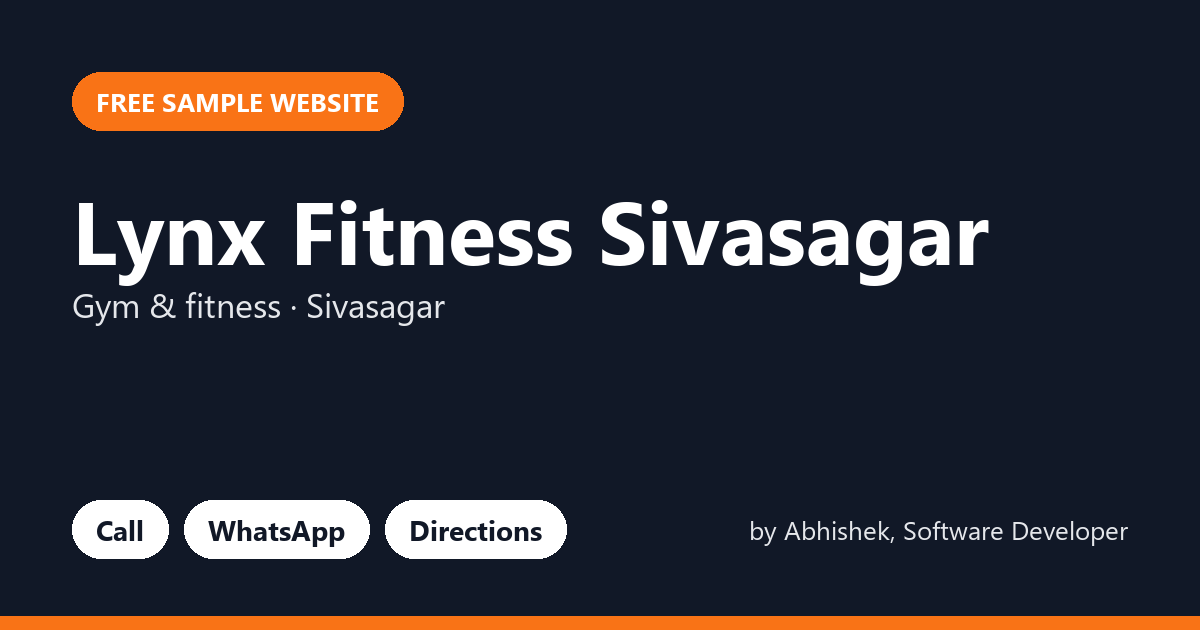
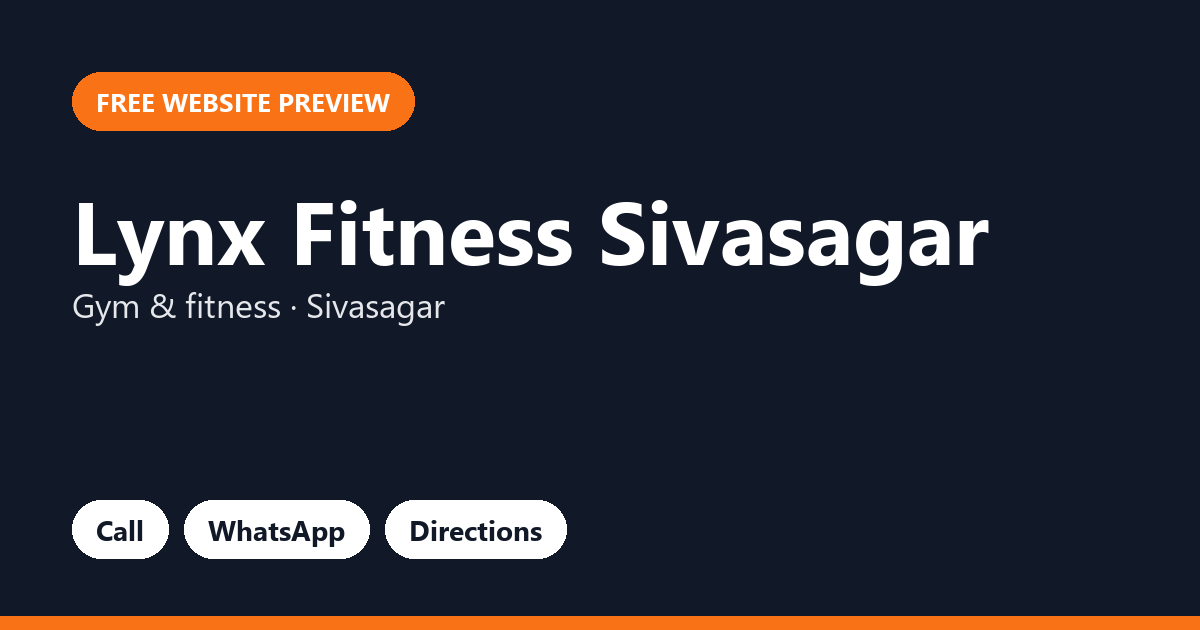
Previews: drop price and personal name (61-65 of 139)

Changed region(s): [[0.6167, 0.8143, 0.925, 0.8746], [0.1233, 0.1206, 0.37, 0.2111]]

diff --git a/p/lk-family-salon-spa-shivamogga-0096/index.html b/p/lk-family-salon-spa-shivamogga-0096/index.html
@@ -6,8 +6,8 @@
 <title>Lk Family Salon &amp; Spa | Salon &amp; beauty in Shivamogga</title>
 <meta name="description" content="Look good, feel great. Expert hair, skin and beauty services in a relaxing space.">
 <meta property="og:type" content="website">
-<meta property="og:title" content="Lk Family Salon &amp; Spa · Free sample website">
-<meta property="og:description" content="Made by Abhishek, Software Developer. Call, WhatsApp and directions in one tap.">
+<meta property="og:title" content="Lk Family Salon &amp; Spa · Free website preview">
+<meta property="og:description" content="Call, WhatsApp and directions in one tap.">
 <meta property="og:url" content="https://roguestar03.github.io/p/lk-family-salon-spa-shivamogga-0096/">
 <meta property="og:image" content="https://roguestar03.github.io/p/lk-family-salon-spa-shivamogga-0096/og.png">
 <meta property="og:image:width" content="1200">
@@ -167,7 +167,7 @@ footer{padding:40px 0 110px;border-top:1px solid var(--line);font-size:14px;colo
 </style>
 </head>
 <body>
-<div class="pv">Sample website made for <b>Lk Family Salon &amp; Spa</b> by <b>Abhishek</b>. Not the official website yet. <b>Like it?</b> Make it yours for ₹1,999. Contact: <a href="mailto:abhishekkayasth87@gmail.com">abhishekkayasth87@gmail.com</a> · <a href="https://www.linkedin.com/in/abhishek-kayasth-050250239/" target="_blank" rel="noopener">LinkedIn</a></div>
+<div class="pv">Free website preview for <b>Lk Family Salon &amp; Spa</b>. Not the official website yet. <b>Like it?</b> Just reply to our message. Contact: <a href="mailto:abhishekkayasth87@gmail.com">abhishekkayasth87@gmail.com</a> · <a href="https://www.linkedin.com/in/abhishek-kayasth-050250239/" target="_blank" rel="noopener">LinkedIn</a></div>
 <header>
   <div class="wrap nav">
     <a href="#top" class="logo"><span class="mark">LF</span><span class="t">Lk Family Salon &amp; Spa</span></a>
@@ -259,7 +259,7 @@ footer{padding:40px 0 110px;border-top:1px solid var(--line);font-size:14px;colo
       <div><b style="color:var(--ink)">Lk Family Salon &amp; Spa</b><br>lk family salon. kuvempu road. shimoga, Shivamogga<p class="soc"><a href="https://www.facebook.com/1844377019213231" target="_blank" rel="noopener">Facebook</a></p></div>
       <div>+91 90354 00096<br>&copy; 2026 Lk Family Salon &amp; Spa</div>
     </div>
-    <p class="credit">Sample website by Abhishek, Software Developer · <a href="mailto:abhishekkayasth87@gmail.com">abhishekkayasth87@gmail.com</a> · <a href="https://www.linkedin.com/in/abhishek-kayasth-050250239/" target="_blank" rel="noopener">LinkedIn</a></p>
+    <p class="credit">Website preview · <a href="mailto:abhishekkayasth87@gmail.com">abhishekkayasth87@gmail.com</a> · <a href="https://www.linkedin.com/in/abhishek-kayasth-050250239/" target="_blank" rel="noopener">LinkedIn</a></p>
   </div>
 </footer>
 

diff --git a/p/lotus-circle-study-centre-delhi-0853/index.html b/p/lotus-circle-study-centre-delhi-0853/index.html
@@ -6,8 +6,8 @@
 <title>Lotus Circle Study Centre | Coaching &amp; tuition in Delhi</title>
 <meta name="description" content="Concept-first teaching, small batches and regular tests that build real results.">
 <meta property="og:type" content="website">
-<meta property="og:title" content="Lotus Circle Study Centre · Free sample website">
-<meta property="og:description" content="Made by Abhishek, Software Developer. Call, WhatsApp and directions in one tap.">
+<meta property="og:title" content="Lotus Circle Study Centre · Free website preview">
+<meta property="og:description" content="Call, WhatsApp and directions in one tap.">
 <meta property="og:url" content="https://roguestar03.github.io/p/lotus-circle-study-centre-delhi-0853/">
 <meta property="og:image" content="https://roguestar03.github.io/p/lotus-circle-study-centre-delhi-0853/og.png">
 <meta property="og:image:width" content="1200">
@@ -167,7 +167,7 @@ footer{padding:40px 0 110px;border-top:1px solid var(--line);font-size:14px;colo
 </style>
 </head>
 <body>
-<div class="pv">Sample website made for <b>Lotus Circle Study Centre</b> by <b>Abhishek</b>. Not the official website yet. <b>Like it?</b> Make it yours for ₹1,999. Contact: <a href="mailto:abhishekkayasth87@gmail.com">abhishekkayasth87@gmail.com</a> · <a href="https://www.linkedin.com/in/abhishek-kayasth-050250239/" target="_blank" rel="noopener">LinkedIn</a></div>
+<div class="pv">Free website preview for <b>Lotus Circle Study Centre</b>. Not the official website yet. <b>Like it?</b> Just reply to our message. Contact: <a href="mailto:abhishekkayasth87@gmail.com">abhishekkayasth87@gmail.com</a> · <a href="https://www.linkedin.com/in/abhishek-kayasth-050250239/" target="_blank" rel="noopener">LinkedIn</a></div>
 <header>
   <div class="wrap nav">
     <a href="#top" class="logo"><span class="mark">LC</span><span class="t">Lotus Circle Study Centre</span></a>
@@ -259,7 +259,7 @@ footer{padding:40px 0 110px;border-top:1px solid var(--line);font-size:14px;colo
       <div><b style="color:var(--ink)">Lotus Circle Study Centre</b><br>C/157, Delhi<p class="soc"><a href="https://www.facebook.com/322078978180556" target="_blank" rel="noopener">Facebook</a></p></div>
       <div>+91 93504 90853<br>&copy; 2026 Lotus Circle Study Centre</div>
     </div>
-    <p class="credit">Sample website by Abhishek, Software Developer · <a href="mailto:abhishekkayasth87@gmail.com">abhishekkayasth87@gmail.com</a> · <a href="https://www.linkedin.com/in/abhishek-kayasth-050250239/" target="_blank" rel="noopener">LinkedIn</a></p>
+    <p class="credit">Website preview · <a href="mailto:abhishekkayasth87@gmail.com">abhishekkayasth87@gmail.com</a> · <a href="https://www.linkedin.com/in/abhishek-kayasth-050250239/" target="_blank" rel="noopener">LinkedIn</a></p>
   </div>
 </footer>
 

diff --git a/p/lynx-fitness-sivasagar-sivasagar-7432/index.html b/p/lynx-fitness-sivasagar-sivasagar-7432/index.html
@@ -6,8 +6,8 @@
 <title>Lynx Fitness Sivasagar | Gym &amp; fitness in Sivasagar</title>
 <meta name="description" content="Train harder, get stronger. Modern equipment, expert trainers and a motivating crowd.">
 <meta property="og:type" content="website">
-<meta property="og:title" content="Lynx Fitness Sivasagar · Free sample website">
-<meta property="og:description" content="Made by Abhishek, Software Developer. Call, WhatsApp and directions in one tap.">
+<meta property="og:title" content="Lynx Fitness Sivasagar · Free website preview">
+<meta property="og:description" content="Call, WhatsApp and directions in one tap.">
 <meta property="og:url" content="https://roguestar03.github.io/p/lynx-fitness-sivasagar-sivasagar-7432/">
 <meta property="og:image" content="https://roguestar03.github.io/p/lynx-fitness-sivasagar-sivasagar-7432/og.png">
 <meta property="og:image:width" content="1200">
@@ -167,7 +167,7 @@ footer{padding:40px 0 110px;border-top:1px solid var(--line);font-size:14px;colo
 </style>
 </head>
 <body>
-<div class="pv">Sample website made for <b>Lynx Fitness Sivasagar</b> by <b>Abhishek</b>. Not the official website yet. <b>Like it?</b> Make it yours for ₹1,999. Contact: <a href="mailto:abhishekkayasth87@gmail.com">abhishekkayasth87@gmail.com</a> · <a href="https://www.linkedin.com/in/abhishek-kayasth-050250239/" target="_blank" rel="noopener">LinkedIn</a></div>
+<div class="pv">Free website preview for <b>Lynx Fitness Sivasagar</b>. Not the official website yet. <b>Like it?</b> Just reply to our message. Contact: <a href="mailto:abhishekkayasth87@gmail.com">abhishekkayasth87@gmail.com</a> · <a href="https://www.linkedin.com/in/abhishek-kayasth-050250239/" target="_blank" rel="noopener">LinkedIn</a></div>
 <header>
   <div class="wrap nav">
     <a href="#top" class="logo"><span class="mark">LF</span><span class="t">Lynx Fitness Sivasagar</span></a>
@@ -259,7 +259,7 @@ footer{padding:40px 0 110px;border-top:1px solid var(--line);font-size:14px;colo
       <div><b style="color:var(--ink)">Lynx Fitness Sivasagar</b><br>Temple Rd, Sivasagar<p class="soc"><a href="https://www.facebook.com/368339087041642" target="_blank" rel="noopener">Facebook</a></p></div>
       <div>+91 70025 07432<br>&copy; 2026 Lynx Fitness Sivasagar</div>
     </div>
-    <p class="credit">Sample website by Abhishek, Software Developer · <a href="mailto:abhishekkayasth87@gmail.com">abhishekkayasth87@gmail.com</a> · <a href="https://www.linkedin.com/in/abhishek-kayasth-050250239/" target="_blank" rel="noopener">LinkedIn</a></p>
+    <p class="credit">Website preview · <a href="mailto:abhishekkayasth87@gmail.com">abhishekkayasth87@gmail.com</a> · <a href="https://www.linkedin.com/in/abhishek-kayasth-050250239/" target="_blank" rel="noopener">LinkedIn</a></p>
   </div>
 </footer>
 

diff --git a/p/lookz-salon-jorhat-jorhat-1691/index.html b/p/lookz-salon-jorhat-jorhat-1691/index.html
@@ -6,8 +6,8 @@
 <title>Lookz Salon Jorhat | Salon &amp; beauty in Jorhat</title>
 <meta name="description" content="Look good, feel great. Expert hair, skin and beauty services in a relaxing space.">
 <meta property="og:type" content="website">
-<meta property="og:title" content="Lookz Salon Jorhat · Free sample website">
-<meta property="og:description" content="Made by Abhishek, Software Developer. Call, WhatsApp and directions in one tap.">
+<meta property="og:title" content="Lookz Salon Jorhat · Free website preview">
+<meta property="og:description" content="Call, WhatsApp and directions in one tap.">
 <meta property="og:url" content="https://roguestar03.github.io/p/lookz-salon-jorhat-jorhat-1691/">
 <meta property="og:image" content="https://roguestar03.github.io/p/lookz-salon-jorhat-jorhat-1691/og.png">
 <meta property="og:image:width" content="1200">
@@ -167,7 +167,7 @@ footer{padding:40px 0 110px;border-top:1px solid var(--line);font-size:14px;colo
 </style>
 </head>
 <body>
-<div class="pv">Sample website made for <b>Lookz Salon Jorhat</b> by <b>Abhishek</b>. Not the official website yet. <b>Like it?</b> Make it yours for ₹1,999. Contact: <a href="mailto:abhishekkayasth87@gmail.com">abhishekkayasth87@gmail.com</a> · <a href="https://www.linkedin.com/in/abhishek-kayasth-050250239/" target="_blank" rel="noopener">LinkedIn</a></div>
+<div class="pv">Free website preview for <b>Lookz Salon Jorhat</b>. Not the official website yet. <b>Like it?</b> Just reply to our message. Contact: <a href="mailto:abhishekkayasth87@gmail.com">abhishekkayasth87@gmail.com</a> · <a href="https://www.linkedin.com/in/abhishek-kayasth-050250239/" target="_blank" rel="noopener">LinkedIn</a></div>
 <header>
   <div class="wrap nav">
     <a href="#top" class="logo"><span class="mark">LS</span><span class="t">Lookz Salon Jorhat</span></a>
@@ -259,7 +259,7 @@ footer{padding:40px 0 110px;border-top:1px solid var(--line);font-size:14px;colo
       <div><b style="color:var(--ink)">Lookz Salon Jorhat</b><br>Apollo towers, 1 St floor, opposite Crystal SR Plaza,  Gar -Ali, Jorhat<p class="soc"><a href="https://www.facebook.com/242561552276350" target="_blank" rel="noopener">Facebook</a></p></div>
       <div>+91 70990 21691<br>&copy; 2026 Lookz Salon Jorhat</div>
     </div>
-    <p class="credit">Sample website by Abhishek, Software Developer · <a href="mailto:abhishekkayasth87@gmail.com">abhishekkayasth87@gmail.com</a> · <a href="https://www.linkedin.com/in/abhishek-kayasth-050250239/" target="_blank" rel="noopener">LinkedIn</a></p>
+    <p class="credit">Website preview · <a href="mailto:abhishekkayasth87@gmail.com">abhishekkayasth87@gmail.com</a> · <a href="https://www.linkedin.com/in/abhishek-kayasth-050250239/" target="_blank" rel="noopener">LinkedIn</a></p>
   </div>
 </footer>
 

diff --git a/p/m-r-fitness-howrah-8895/index.html b/p/m-r-fitness-howrah-8895/index.html
@@ -6,8 +6,8 @@
 <title>M.R. Fitness | Gym &amp; fitness in Howrah</title>
 <meta name="description" content="Train harder, get stronger. Modern equipment, expert trainers and a motivating crowd.">
 <meta property="og:type" content="website">
-<meta property="og:title" content="M.R. Fitness · Free sample website">
-<meta property="og:description" content="Made by Abhishek, Software Developer. Call, WhatsApp and directions in one tap.">
+<meta property="og:title" content="M.R. Fitness · Free website preview">
+<meta property="og:description" content="Call, WhatsApp and directions in one tap.">
 <meta property="og:url" content="https://roguestar03.github.io/p/m-r-fitness-howrah-8895/">
 <meta property="og:image" content="https://roguestar03.github.io/p/m-r-fitness-howrah-8895/og.png">
 <meta property="og:image:width" content="1200">
@@ -167,7 +167,7 @@ footer{padding:40px 0 110px;border-top:1px solid var(--line);font-size:14px;colo
 </style>
 </head>
 <body>
-<div class="pv">Sample website made for <b>M.R. Fitness</b> by <b>Abhishek</b>. Not the official website yet. <b>Like it?</b> Make it yours for ₹1,999. Contact: <a href="mailto:abhishekkayasth87@gmail.com">abhishekkayasth87@gmail.com</a> · <a href="https://www.linkedin.com/in/abhishek-kayasth-050250239/" target="_blank" rel="noopener">LinkedIn</a></div>
+<div class="pv">Free website preview for <b>M.R. Fitness</b>. Not the official website yet. <b>Like it?</b> Just reply to our message. Contact: <a href="mailto:abhishekkayasth87@gmail.com">abhishekkayasth87@gmail.com</a> · <a href="https://www.linkedin.com/in/abhishek-kayasth-050250239/" target="_blank" rel="noopener">LinkedIn</a></div>
 <header>
   <div class="wrap nav">
     <a href="#top" class="logo"><span class="mark">MR</span><span class="t">M.R. Fitness</span></a>
@@ -259,7 +259,7 @@ footer{padding:40px 0 110px;border-top:1px solid var(--line);font-size:14px;colo
       <div><b style="color:var(--ink)">M.R. Fitness</b><br>7, Molla Para Ln, Howrah<p class="soc"><a href="https://www.facebook.com/106394522171584" target="_blank" rel="noopener">Facebook</a></p></div>
       <div>+91 98362 58895<br>&copy; 2026 M.R. Fitness</div>
     </div>
-    <p class="credit">Sample website by Abhishek, Software Developer · <a href="mailto:abhishekkayasth87@gmail.com">abhishekkayasth87@gmail.com</a> · <a href="https://www.linkedin.com/in/abhishek-kayasth-050250239/" target="_blank" rel="noopener">LinkedIn</a></p>
+    <p class="credit">Website preview · <a href="mailto:abhishekkayasth87@gmail.com">abhishekkayasth87@gmail.com</a> · <a href="https://www.linkedin.com/in/abhishek-kayasth-050250239/" target="_blank" rel="noopener">LinkedIn</a></p>
   </div>
 </footer>
 
